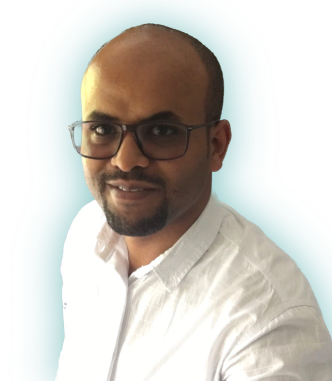
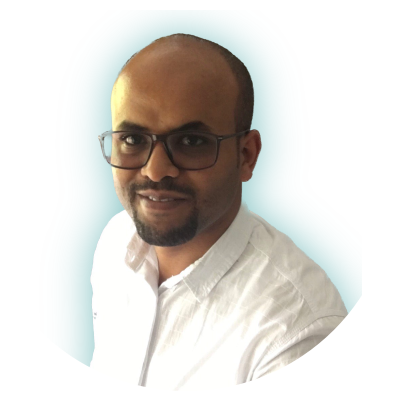
fix hero image

Changed region(s): [[0.1205, 0.0577, 1.0, 1.0], [0.4819, 0.5774, 0.512, 0.6063], [0.4518, 0.8084, 0.4819, 0.8373]]

diff --git a/src/components/Hero.tsx b/src/components/Hero.tsx
@@ -8,7 +8,7 @@ import UpWorkIcon from "./icons/UpWorkIcon";
 const Hero = () => {
   return (
     <div className="my-12 flex w-full items-center justify-center gap-4 divide-x-[1px] dark:divide-slate-500">
-      <div className="relative h-full w-40 rounded-full p-2">
+      <div className="relative h-48 w-48 rounded-full p-2">
         <div className="absolute bottom-0 right-0 h-full w-full rounded-full bg-slate-300 blur-md dark:bg-slate-800"></div>
         <StaticImage
           src="../images/kalibetre.png"
